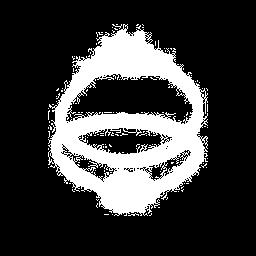
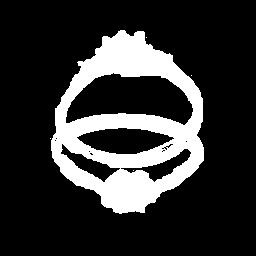
new plots

diff --git a/transform_to_mask.py b/transform_to_mask.py
@@ -2,9 +2,9 @@ import PIL
 from PIL import Image
 import numpy as np
 
-filename = "ring4.jpg"
+filename = "ring1.jpg"
 mask_path = f"./dataset/mask_before_transform/{filename}"
 mask = Image.open(mask_path)
 gray = mask.convert('L')
-bw = gray.point(lambda x: 0 if x<1 else 255, '1')
+bw = gray.point(lambda x: 0 if x<10 else 255, '1')
 bw.save(f"./dataset/new_train/masks/{filename}")
